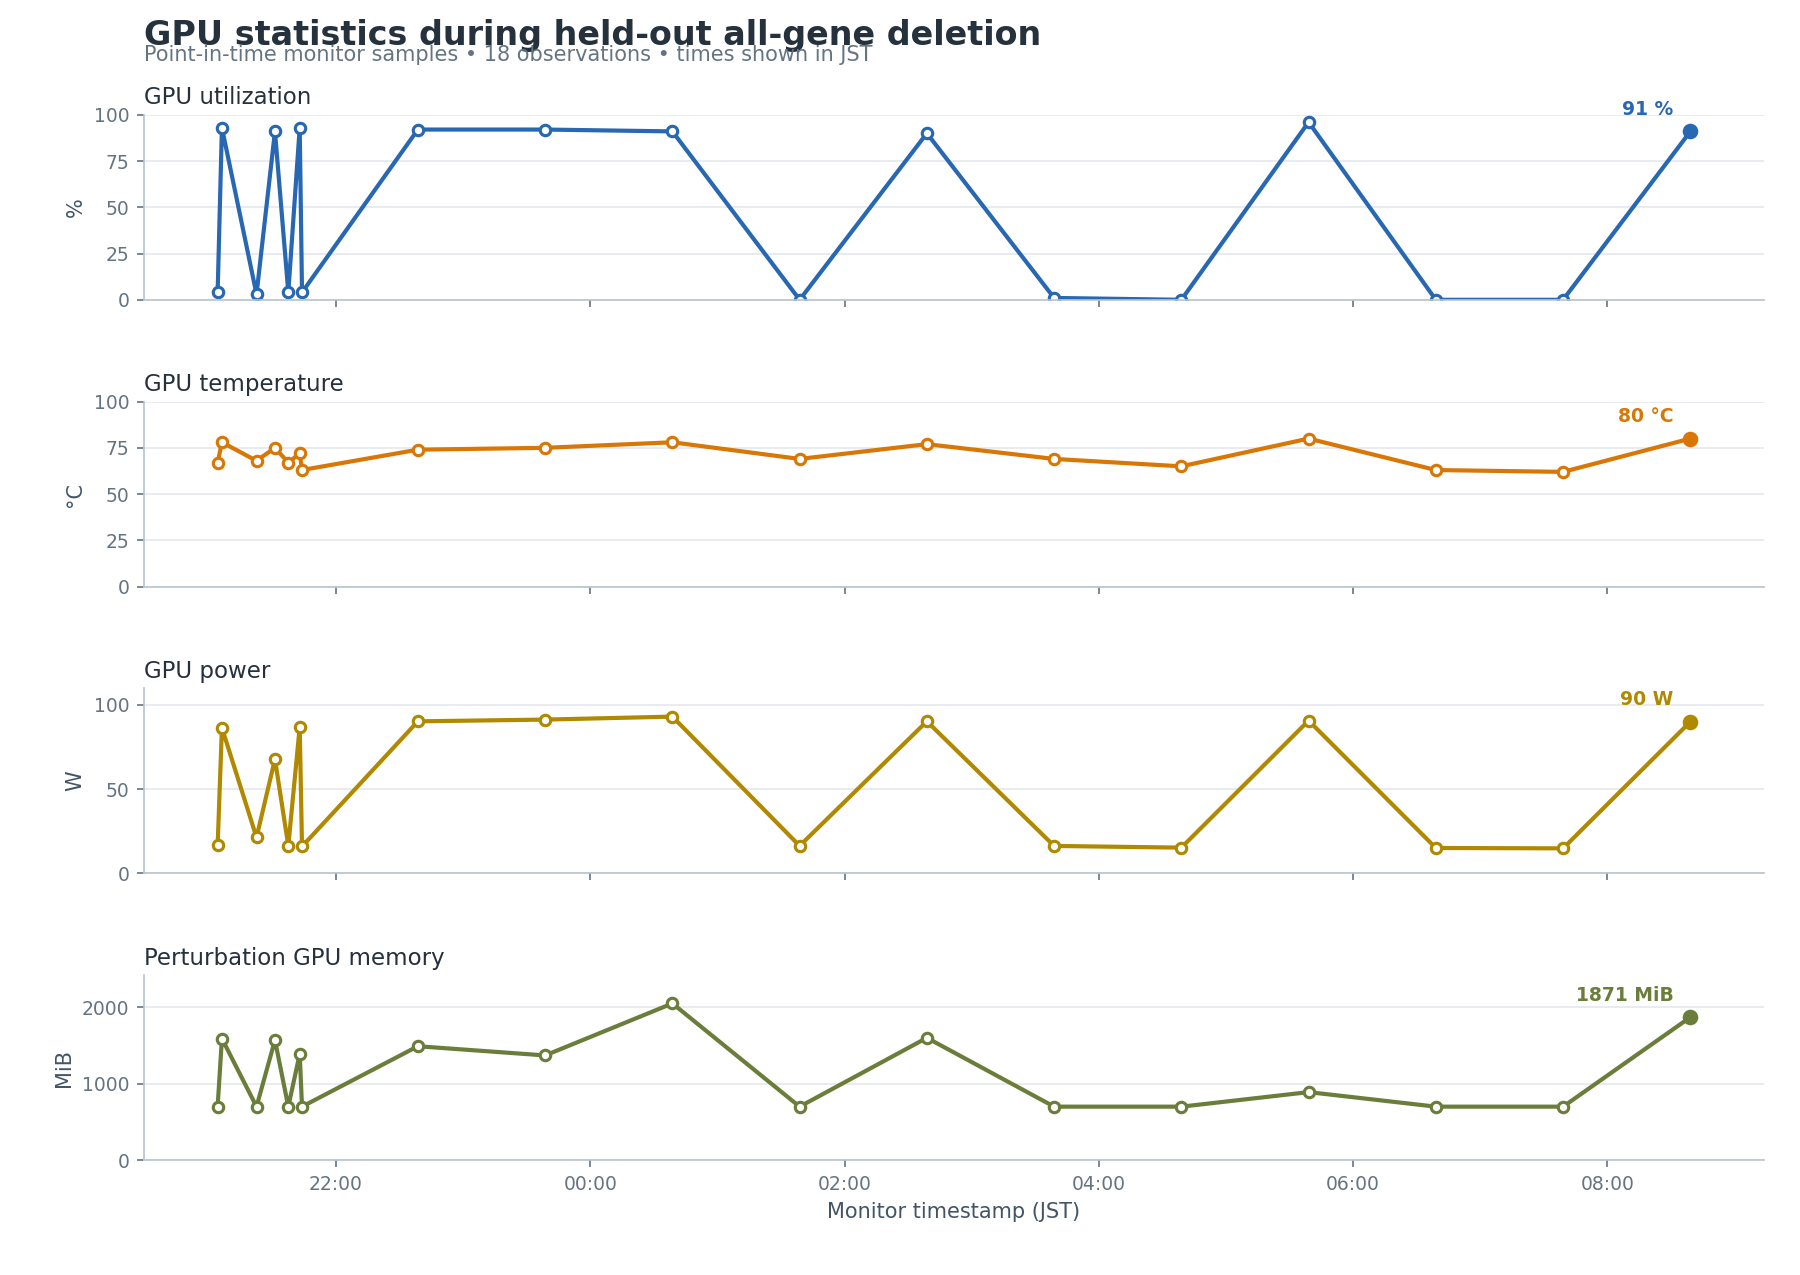
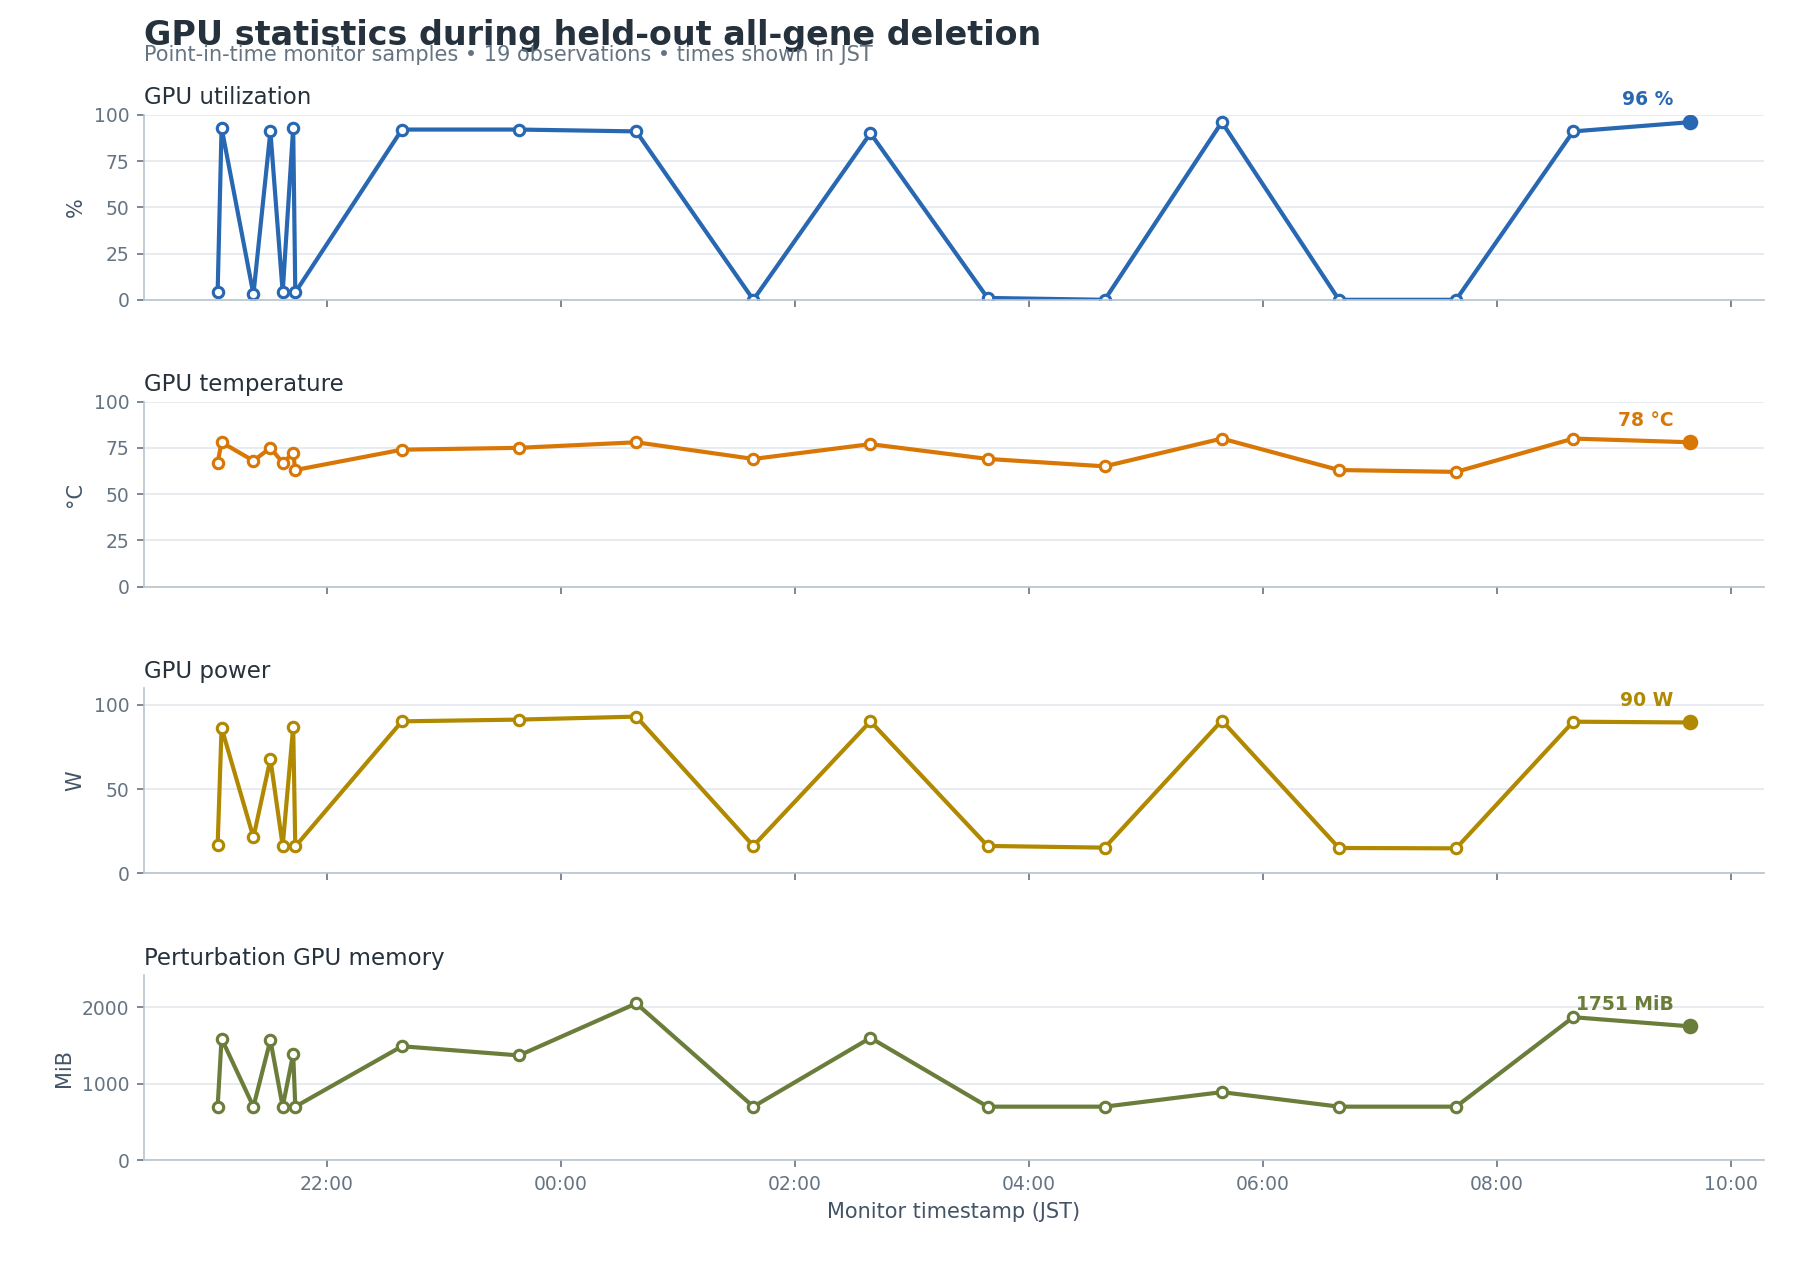
monitor: update perturbation status 2026-07-18 09:39 JST

diff --git a/current_workflow/monitoring/GPU_PROGRESS_REPORT.md b/current_workflow/monitoring/GPU_PROGRESS_REPORT.md
@@ -14,6 +14,39 @@ Newest snapshots appear first. Existing entries are retained below; the machine-
 
 ---
 
+## Snapshot — 2026-07-18T09:39:14+09:00
+
+Run status: **RUNNING**
+
+Overall cell progress: **1,849 / 3,379 (54.72%)**
+
+### GPU and memory
+
+| Metric | Current value |
+|---|---:|
+| GPU | NVIDIA GB10 |
+| GPU utilization | 96% |
+| GPU temperature | 78 C |
+| GPU power | 89.6 W |
+| Perturbation GPU memory | 1751 MiB |
+| System memory used | 38.9 GiB |
+| System memory available | 80.8 GiB |
+| Swap used | 0.0 GiB |
+
+### Perturbation progress
+
+| Source | Cells written | Shards complete | Raw files |
+|---|---:|---:|---:|
+| LUSC | 560 / 560 (100.00%) | 23 / 23 | 1,120 |
+| LUAD | 1,289 / 1,411 (91.35%) | 51 / 57 | 2,579 |
+| NORMAL | 0 / 1,408 (0.00%) | 0 / 57 | 0 |
+
+Statistics are generated after all shards for a source state complete. Cell
+counts include only cells with both raw checkpoint batches present.
+
+
+---
+
 ## Snapshot — 2026-07-18T08:39:11+09:00
 
 Run status: **RUNNING**
